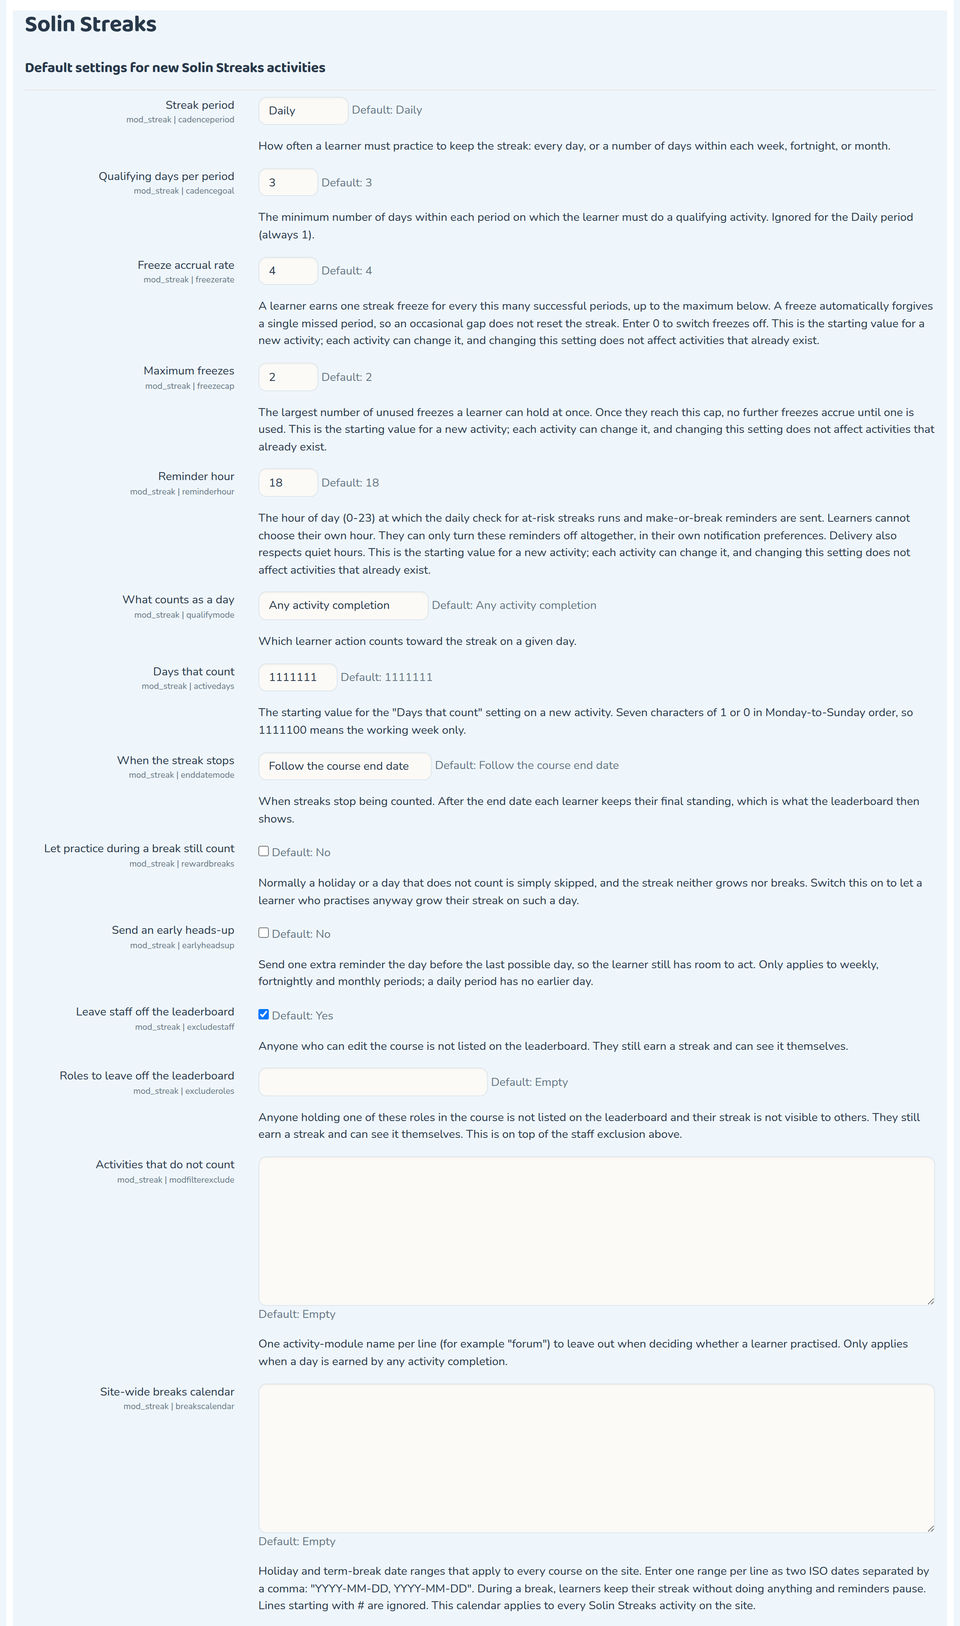
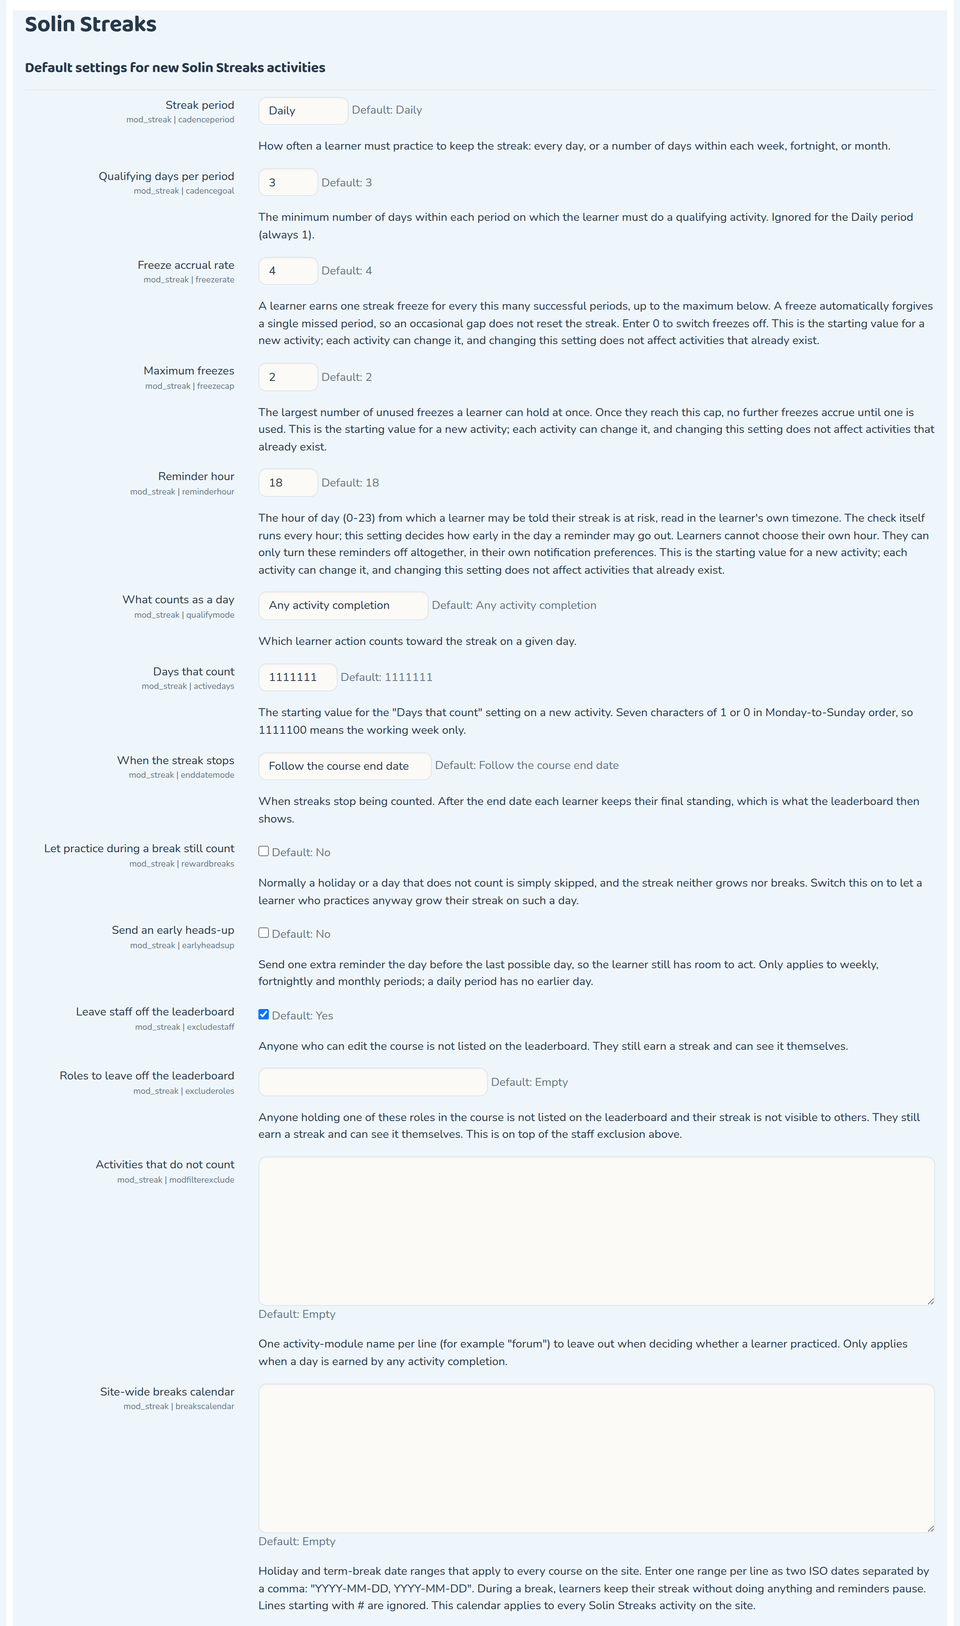
mod_streak: correct the documentation and inline help against what the code does
A documentation audit against the code after the 0.10.x work, prompted by the stale
screenshots.

- The site reminder-hour help claimed "Delivery also respects quiet hours". Nothing
  implements quiet hours, here or in core messaging. The same string called the setting
  the hour at which the daily check runs; the rollover task runs hourly and the setting
  gates how early in the learner's own day a reminder may go out.
- The activity-chooser description still called this a "daily-practice" streak, which
  stopped being the whole story when weekly, fortnightly and monthly periods arrived.
- README: the feature list never mentioned the weekday mask or the site-default /
  per-activity split; the streak-mechanics section did not say that off days and holidays
  are skipped rather than missed; the freeze bullet described the mechanic wrongly ("a
  number of forgiven misses per period" instead of one freeze earned per N successful
  periods); the test counts were 62 / 3 against an actual 141 / 9 and called the CI matrix
  "planned" when it has been running for weeks; the site-settings table listed six of the
  fourteen settings.
- site-defaults.png retaken again, since it renders the reminder-hour help text.
- US spelling: "practise" and its forms throughout the plugin, tests and docs.

Version 2026083001 so the string cache picks the new help text up.

Changed region(s): [[0.2812, 0.3075, 0.9688, 0.369]]

diff --git a/lang/en/streak.php b/lang/en/streak.php
@@ -25,7 +25,7 @@
 defined('MOODLE_INTERNAL') || die();
 
 $string['activedays'] = 'Days that count';
-$string['activedays_help'] = 'The weekdays on which a learner is expected to practise. A day that is switched off behaves exactly like a holiday: nothing is expected, and doing nothing cannot cost the learner their streak. Untick Saturday and Sunday for a working-week streak. At least one day must stay switched on.';
+$string['activedays_help'] = 'The weekdays on which a learner is expected to practice. A day that is switched off behaves exactly like a holiday: nothing is expected, and doing nothing cannot cost the learner their streak. Untick Saturday and Sunday for a working-week streak. At least one day must stay switched on.';
 $string['boardtruncated'] = 'Showing the top {$a->shown} of {$a->total}.';
 $string['cadencegoal'] = 'Qualifying days per period';
 $string['cadencegoal_help'] = 'The minimum number of days within each period on which the learner must do a qualifying activity. Ignored for the Daily period (always 1).';
@@ -59,9 +59,9 @@ $string['mode:anycompletion'] = 'Any activity completion';
 $string['mode:courseprogress'] = 'Course progress advanced';
 $string['mode:login'] = 'Login only';
 $string['modfilterexclude'] = 'Activities that do not count';
-$string['modfilterexclude_help'] = 'One activity-module name per line (for example "forum") to leave out when deciding whether a learner practised. Only applies when a day is earned by any activity completion.';
+$string['modfilterexclude_help'] = 'One activity-module name per line (for example "forum") to leave out when deciding whether a learner practiced. Only applies when a day is earned by any activity completion.';
 $string['modulename'] = 'Solin Streaks';
-$string['modulename_help'] = 'Solin Streaks adds a daily-practice learning streak to a course: a per-learner streak counter, streak freeze, reminders, and a per-course leaderboard.';
+$string['modulename_help'] = 'Solin Streaks adds a regular-practice learning streak to a course: a per-learner streak counter, streak freezes, reminders, and a per-course leaderboard. The rhythm is yours to choose: every day, or a number of days per week, fortnight or month.';
 $string['modulenameplural'] = 'Solin Streaks activities';
 $string['nobodyyet'] = 'No streaks yet. Be the first!';
 $string['notstarted'] = 'Streak not started yet';
@@ -94,7 +94,7 @@ $string['reminderhour_help'] = 'The learner is reminded at or after this time in
 $string['reminders'] = 'Reminders';
 $string['restoreduplicatenotice'] = 'This course already contains a Solin Streaks activity. The restored activity has been kept so none of its data is lost, but only the original activity records streaks. Remove one of the two so learners see a single, working streak.';
 $string['rewardbreaks'] = 'Let practice during a break still count';
-$string['rewardbreaks_help'] = 'Normally a holiday or a day that does not count is simply skipped, and the streak neither grows nor breaks. Switch this on to let a learner who practises anyway grow their streak on such a day.';
+$string['rewardbreaks_help'] = 'Normally a holiday or a day that does not count is simply skipped, and the streak neither grows nor breaks. Switch this on to let a learner who practices anyway grow their streak on such a day.';
 $string['settings:activedays_help'] = 'The starting value for the "Days that count" setting on a new activity. Seven characters of 1 or 0 in Monday-to-Sunday order, so 1111100 means the working week only.';
 $string['settings:breakscalendar'] = 'Site-wide breaks calendar';
 $string['settings:breakscalendar_help'] = 'Holiday and term-break date ranges that apply to every course on the site. Enter one range per line as two ISO dates separated by a comma: "YYYY-MM-DD, YYYY-MM-DD". During a break, learners keep their streak without doing anything and reminders pause. Lines starting with # are ignored. This calendar applies to every Solin Streaks activity on the site.';
@@ -104,7 +104,7 @@ $string['settings:freezecap_help'] = 'The largest number of unused freezes a lea
 $string['settings:freezerate'] = 'Freeze accrual rate';
 $string['settings:freezerate_help'] = 'A learner earns one streak freeze for every this many successful periods, up to the maximum below. A freeze automatically forgives a single missed period, so an occasional gap does not reset the streak. Enter 0 to switch freezes off. This is the starting value for a new activity; each activity can change it, and changing this setting does not affect activities that already exist.';
 $string['settings:reminderhour'] = 'Reminder hour';
-$string['settings:reminderhour_help'] = 'The hour of day (0-23) at which the daily check for at-risk streaks runs and make-or-break reminders are sent. Learners cannot choose their own hour. They can only turn these reminders off altogether, in their own notification preferences. Delivery also respects quiet hours. This is the starting value for a new activity; each activity can change it, and changing this setting does not affect activities that already exist.';
+$string['settings:reminderhour_help'] = 'The hour of day (0-23) from which a learner may be told their streak is at risk, read in the learner\'s own timezone. The check itself runs every hour; this setting decides how early in the day a reminder may go out. Learners cannot choose their own hour. They can only turn these reminders off altogether, in their own notification preferences. This is the starting value for a new activity; each activity can change it, and changing this setting does not affect activities that already exist.';
 $string['streak:addinstance'] = 'Add a new Solin Streaks activity';
 $string['streak:view'] = 'View own streak';
 $string['streak:viewleaderboard'] = 'View the streak leaderboard';

diff --git a/classes/local/breaks.php b/classes/local/breaks.php
@@ -128,7 +128,7 @@ final class breaks {
      * Whether a day does not count: inside a break range, or on a weekday that is switched off.
      *
      * The two are a union. A holiday and a non-working weekday behave identically: the learner is
-     * not expected to practise, and not practising cannot cost them the streak.
+     * not expected to practice, and not practicing cannot cost them the streak.
      *
      * @param array $ranges Parsed ranges.
      * @param string $mask Activedays mask.

diff --git a/tests/activedays_test.php b/tests/activedays_test.php
@@ -23,7 +23,7 @@ use mod_streak\local\engine;
  * The activedays mask: which weekdays count toward a streak.
  *
  * A switched-off weekday behaves exactly like a holiday. Nothing is expected of the learner and not
- * practising cannot cost them the streak, which is what makes a working-week streak possible without
+ * practicing cannot cost them the streak, which is what makes a working-week streak possible without
  * everyone losing it every Monday morning.
  *
  * @package    mod_streak

diff --git a/version.php b/version.php
@@ -25,7 +25,7 @@
 defined('MOODLE_INTERNAL') || die();
 
 $plugin->component = 'mod_streak';
-$plugin->version   = 2026083000;
+$plugin->version   = 2026083001;
 $plugin->requires  = 2024100700; // Moodle 4.5.0.
 $plugin->supported = [405, 502];  // Moodle 4.5 LTS through 5.2.
 $plugin->maturity  = MATURITY_BETA;

diff --git a/README.md b/README.md
@@ -51,8 +51,10 @@ plugin uses only the portable Moodle DML API. Moodle 5.1 moved the web root into
   branded flame on the course page.
 - **Configurable cadence.** Daily by default, or Weekly / Fortnightly / Monthly with a
   per-period goal ("3 of 7 days this week"), so the streak fits the course rhythm.
-- **Streak freeze.** A configurable number of forgiven misses per period (with a cap),
-  so one bad day does not wipe out weeks of effort.
+- **Streak freeze.** Learners earn one freeze for every so many successful periods, up to
+  a cap, and a freeze forgives a single missed period, so one bad day does not wipe out
+  weeks of effort. Both the accrual rate and the cap are configurable, and freezes can be
+  switched off entirely.
 - **Make-or-break reminders.** Delivered through Moodle's Message API (email, web
   notification, and mobile push where available), only when a streak is actually at
   risk, and respecting each user's notification preferences.
@@ -66,8 +68,14 @@ plugin uses only the portable Moodle DML API. Moodle 5.1 moved the web root into
 - **Qualifying action.** Choose what counts toward a day: any activity completion (the
   default), a course-progress advance, or login only. See
   [Qualifying actions](#qualifying-actions).
+- **Days that count.** A per-activity weekday mask decides which days a learner is
+  expected to practice. Untick Saturday and Sunday and the streak survives the weekend
+  untouched: a day that is switched off behaves exactly like a holiday.
 - **Institutional breaks.** A site holiday calendar so scheduled closures do not break
   anyone's streak.
+- **Site defaults, per-activity control.** Every setting except the breaks calendar has a
+  site-wide default that seeds a new activity, and can then be changed on the activity
+  itself without disturbing any other course.
 - **Themeable and mobile-ready.** Override templates, pix icons, CSS tokens, or the
   renderer without forking; the activity also renders in the Moodle App.
 
@@ -102,7 +110,11 @@ practical reasons ruled it out:
 
 A learner earns one **qualifying day** for each calendar day (in their own timezone) on
 which they perform a qualifying action. Consecutive qualifying periods build the streak;
-a missed period ends it unless a freeze is available. The number shown at the top of the
+a missed period ends it unless a freeze is available. Days the course does not expect
+anything on — a weekday switched off in *Days that count*, or a date inside the site's
+breaks calendar — are skipped rather than missed: the streak neither grows nor breaks,
+and the period's goal shrinks to match. A learner who practices anyway on such a day can
+still be credited, if the activity has that switched on. The number shown at the top of the
 widget and the number on the leaderboard are always the same value (the cached
 `displaystreak`), so what a learner sees about themselves and where they sit on the board
 never disagree.
@@ -160,13 +172,13 @@ already exists. The breaks calendar is the one exception: it is site-wide only.
 | `activedays` | Weekdays a learner is expected to practice, as a seven-character mask. |
 | `freezerate` | How often a freeze is granted (e.g. one per four successful periods). |
 | `freezecap` | Maximum freezes a learner can bank. |
-| `rewardbreaks` | Whether practising on a holiday or an off day still grows the streak. |
+| `rewardbreaks` | Whether practicing on a holiday or an off day still grows the streak. |
 | `enddatemode` | When streaks stop being counted: course end date, a fixed date, or never. |
 | `reminderhour` | Hour of day reminders are sent, in the learner's own timezone. |
 | `earlyheadsup` | One extra reminder the day before the last possible day, for non-daily periods. |
 | `excludestaff` | Keep anyone who can edit the course off the leaderboard. |
 | `excluderoles` | Keep named roles off the leaderboard, on top of the staff exclusion. |
-| Breaks calendar | Site-wide holiday ranges that never break a streak. Site-wide only. |
+| `breakscalendar` | Site-wide holiday ranges that never break a streak. Site-wide only. |
 
 ![The site settings page for Solin Streaks: every setting with its default and inline help text, from the streak period and qualifying rule through the freeze policy, reminders, leaderboard exclusions and the site-wide breaks calendar](docs/screenshots/site-defaults.png)
 
@@ -255,12 +267,13 @@ guest homepage:
 
 ## Testing
 
-The plugin ships a full automated test suite: **62 PHPUnit tests** covering the streak
-engine, cadence, evaluator, leaderboard, reminders, backup/restore, privacy, and the
-output classes, plus **3 Behat scenarios** for the inline display, leaderboard opt-out,
-and the one-activity-per-course rule. The suite passes on Moodle 4.5 LTS, where the plugin
-is actively developed; the same code targets 5.0, 5.1, and 5.2, with a CI matrix across
-all supported versions planned.
+The plugin ships a full automated test suite: **141 PHPUnit tests** covering the streak
+engine, cadence, evaluator, weekday mask, leaderboard, reminders, per-activity setting
+overrides, backup/restore, privacy, and the output classes, plus **9 Behat scenarios**
+covering the inline display, leaderboard opt-out, the one-activity-per-course rule, and
+the activity settings form field by field. The suite runs green on Moodle 4.5 LTS, 5.1
+and 5.2, and every push is checked by a GitHub Actions matrix spanning Moodle 4.5, 5.0,
+5.1 and 5.2 on PHP 8.1 to 8.3, against both PostgreSQL and MariaDB.
 
 ```bash
 php admin/tool/phpunit/cli/init.php

diff --git a/CHANGES.md b/CHANGES.md
@@ -4,7 +4,7 @@ All notable changes to Solin Streaks (`mod_streak`) are documented here.
 
 ## 0.10.1 — 2026-08-30
 
-Plugin version `2026083000`.
+Plugin version `2026083001`.
 
 ### Changed
 
@@ -20,6 +20,22 @@ Plugin version `2026083000`.
 
 - The weekday checkboxes printed each day name twice ("Mon Mon Tue Tue ..."), because the label was
   passed as both the element label and the checkbox text.
+
+### Documentation
+
+- **The site settings help claimed something the plugin does not do.** The reminder-hour help said
+  "Delivery also respects quiet hours". There is no quiet-hours mechanism, in this plugin or in core
+  Moodle messaging. The same help also described the setting as the hour at which the daily check
+  runs; the check runs every hour, and the setting decides how early in the learner's own day a
+  reminder may go out. Rewritten to say what actually happens.
+- The activity-chooser description called this a "daily-practice" streak, which stopped being the
+  whole story when weekly, fortnightly and monthly periods were added.
+- Both settings screenshots were retaken: the site settings page was two releases out of date,
+  showing six settings where there are now fourteen, with help text that had since been corrected.
+- The README's site-settings table listed six of the fourteen settings; it now lists all of them.
+  The test counts were also stale (62 tests / 3 scenarios, "CI matrix planned"), and the feature
+  list did not mention the weekday mask at all.
+- US spelling throughout: "practise" and its forms became "practice".
 
 ## 0.10.0 — 2026-08-28
 
@@ -48,7 +64,7 @@ Plugin version `2026082900`.
   types and the streak end date are all editable on the activity itself. A site setting supplies the
   starting value for a new activity; the activity's own value is authoritative from then on.
 - **Days that count.** A new per-activity weekday mask decides which days a learner is expected to
-  practise. Unticking Saturday and Sunday gives a working-week streak, which is what a corporate
+  practice. Unticking Saturday and Sunday gives a working-week streak, which is what a corporate
   audience usually wants. A switched-off day behaves exactly like a holiday: nothing is expected and
   missing it cannot cost the learner their streak, it reduces the period's effective goal, and
   work-to-win still applies if that is switched on. It combines with the breaks calendar as a union.
